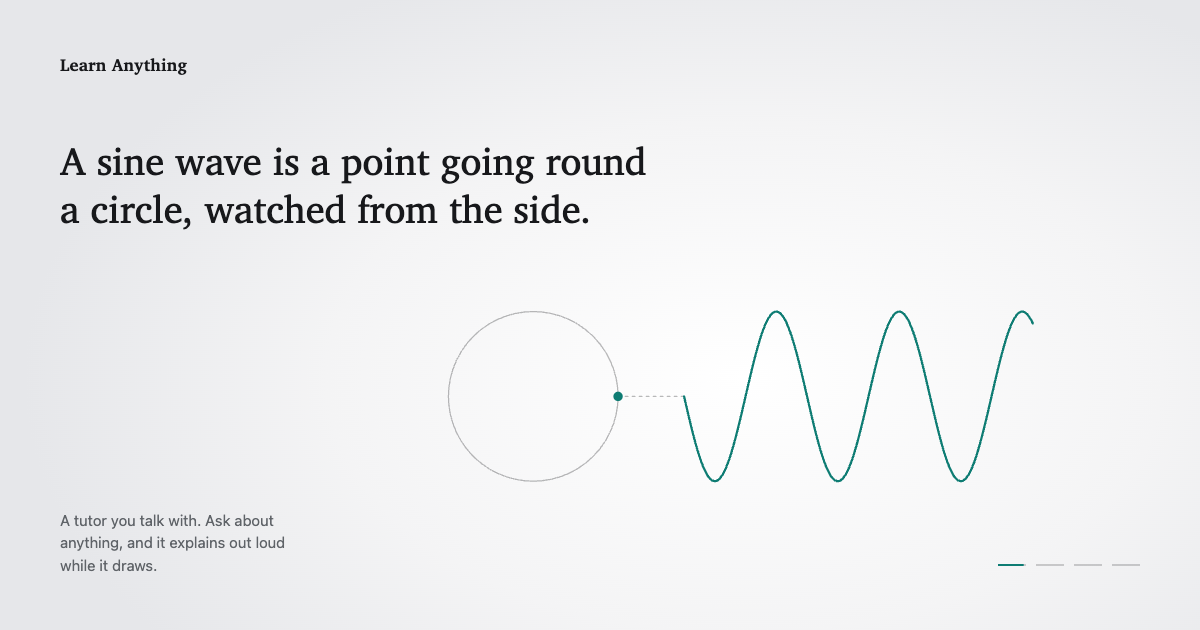
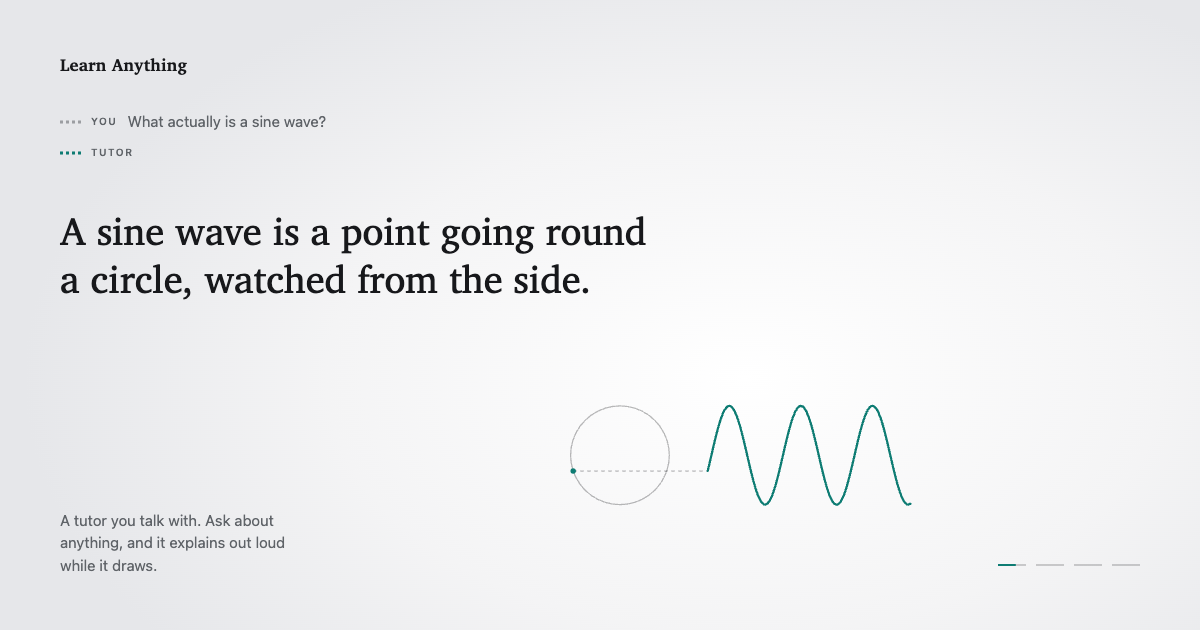
the landing page plays each lesson as an exchange

diff --git a/site/stage.js b/site/stage.js
@@ -1,3 +1,4 @@
+import { FADE, SWAP, exchange } from "./exchange.js";
 import sine from "./lessons/sine.js";
 import light from "./lessons/light.js";
 import route from "./lessons/route.js";
@@ -5,23 +6,32 @@ import moon from "./lessons/moon.js";
 
 const LESSONS = [sine, light, route, moon];
 const WAIT = 0.6;
-const FADE = 0.8;
+const TAIL = 0.25;
+const RAMP = 0.25;
 
+const main = document.querySelector("main");
 const svg = document.querySelector(".drawing");
 const sentence = document.querySelector(".sentence");
+const you = document.querySelector(".you");
+const tutor = document.querySelector(".tutor");
+const question = you.querySelector(".asked");
 const reduce = matchMedia("(prefers-reduced-motion: reduce)");
 
 let mode = reduce.matches ? "reduce" : "play";
 let current = 0;
-let t = -WAIT;
+let s = -WAIT;
+let heard = [];
 let spans = [];
+let shown = null;
 let prev = null;
 
 const scenes = LESSONS.map((lesson) => {
   const pose = lesson.build(svg);
   const group = svg.lastElementChild;
   group.style.display = "none";
-  return { lesson, pose, group };
+  const timeline = exchange(lesson);
+  const answer = lesson.words.map(([word, at]) => [word, timeline.pre + at]);
+  return { lesson, pose, group, answer, ...timeline };
 });
 
 const marks = LESSONS.map((lesson, index) => {
@@ -38,25 +48,44 @@ const list = document.createElement("ol");
 list.className = "sr-only";
 for (const lesson of LESSONS) {
   const item = document.createElement("li");
-  item.textContent = lesson.words.map(([word]) => word).join(" ");
+  const answer = lesson.words.map(([word]) => word).join(" ");
+  item.textContent = `You: ${lesson.asked} Tutor: ${answer} Tutor: ${lesson.askBack}`;
   list.append(item);
 }
 sentence.after(list);
 
-function finished(index) {
-  return LESSONS[index].length - FADE;
+function clamp(value, low, high) {
+  return Math.min(high, Math.max(low, value));
 }
 
-function play(index, at) {
-  current = index;
-  t = at;
-  spans = LESSONS[index].words.map(([word]) => {
+function finished(index) {
+  return scenes[index].total - FADE;
+}
+
+function fill(element, words) {
+  const made = words.map(([word]) => {
     const span = document.createElement("span");
     span.textContent = word;
     return span;
   });
-  sentence.classList.toggle("still", mode !== "play");
-  sentence.replaceChildren(...spans.flatMap((span, i) => (i === 0 ? [span] : [" ", span])));
+  element.replaceChildren(...made.flatMap((span, i) => (i === 0 ? [span] : [" ", span])));
+  return made;
+}
+
+function reveal(made, words) {
+  made.forEach((span, i) => span.classList.toggle("said", s > words[i][1]));
+}
+
+function talking(words) {
+  return s > words[0][1] && s < words.at(-1)[1] + TAIL;
+}
+
+function play(index, at) {
+  current = index;
+  s = at;
+  shown = null;
+  heard = fill(question, scenes[index].asked);
+  main.classList.toggle("still", mode !== "play");
   scenes.forEach((scene, i) => {
     scene.group.style.display = i === index ? "" : "none";
   });
@@ -65,23 +94,39 @@ function play(index, at) {
 }
 
 function show() {
-  const { lesson, pose, group } = scenes[current];
-  pose(t);
-  spans.forEach((span, i) => span.classList.toggle("said", t > lesson.words[i][1]));
-  const fade = String(Math.min(1, Math.max(0, (lesson.length - t) / FADE)));
-  group.style.opacity = fade;
-  sentence.style.opacity = fade;
-  marks[current].style.setProperty("--p", String(mode === "reduce" ? 1 : t / lesson.length));
+  const { lesson, pose, group, pre, asked, answer, askBack, listenAt, total } = scenes[current];
+  const turn = pre + lesson.askAt;
+  const back = mode !== "reduce" && s >= turn + SWAP;
+  const words = back ? askBack : answer;
+  if (words !== shown) {
+    shown = words;
+    spans = fill(sentence, words);
+    // A span inserted and marked said in the same frame skips its fade; settle it unsaid first.
+    void sentence.offsetWidth;
+  }
+  pose(clamp(s - pre, 0, lesson.length));
+  reveal(heard, asked);
+  reveal(spans, words);
+  const fade = clamp((total - s) / FADE, 0, 1);
+  const giving = back || mode === "reduce" ? 1 : clamp((turn + SWAP - s) / SWAP, 0, 1);
+  group.style.opacity = String(fade);
+  sentence.style.opacity = String(Math.min(fade, giving));
+  you.style.opacity = String(Math.min(fade, clamp(s / RAMP, 0, 1)));
+  tutor.style.opacity = String(Math.min(fade, clamp((s - pre) / RAMP, 0, 1)));
+  you.classList.toggle("talking", talking(asked));
+  you.classList.toggle("listening", mode !== "reduce" && s >= listenAt);
+  tutor.classList.toggle("talking", talking(answer) || talking(askBack));
+  marks[current].style.setProperty("--p", String(mode === "reduce" ? 1 : s / total));
 }
 
 function tick(dt) {
-  if (t < 0) {
-    t += dt;
-    if (t >= 0) play(0, 0);
+  if (s < 0) {
+    s += dt;
+    if (s >= 0) play(0, 0);
     return;
   }
-  t += dt;
-  if (t < LESSONS[current].length) show();
+  s += dt;
+  if (s < scenes[current].total) show();
   else play((current + 1) % LESSONS.length, 0);
 }
 
@@ -103,7 +148,7 @@ reduce.addEventListener("change", () => {
 
 const freeze = /^#(\d+)@(\d*\.?\d+)$/.exec(location.hash);
 const frozen = freeze === null ? -1 : Number(freeze[1]) - 1;
-if (frozen >= 0 && frozen < LESSONS.length && Number(freeze[2]) <= LESSONS[frozen].length) {
+if (frozen >= 0 && frozen < LESSONS.length && Number(freeze[2]) <= scenes[frozen].total) {
   mode = "freeze";
   play(frozen, Number(freeze[2]));
 } else if (mode === "reduce") {

diff --git a/site/style.css b/site/style.css
@@ -58,9 +58,10 @@ main {
   box-sizing: border-box;
   display: grid;
   grid-template-columns: 26% 1fr;
-  grid-template-rows: auto auto 1fr auto;
+  grid-template-rows: auto auto auto 1fr auto;
   grid-template-areas:
     "brand brand"
+    "voice voice"
     "say say"
     "about draw"
     "about marks";
@@ -72,32 +73,167 @@ main {
 
 .brand {
   grid-area: brand;
-  margin: 0 0 clamp(24px, 5vw, 80px);
+  margin: 0 0 clamp(24px, 3vw, 48px);
   font: 700 17px / 1.25 var(--serif);
   letter-spacing: 0.01em;
 }
 
+.voice {
+  grid-area: voice;
+  display: grid;
+  gap: 10px;
+  color: var(--ink-2);
+  font: 15px / 21px var(--sans);
+}
+
+.you,
+.tutor {
+  display: grid;
+  grid-template-columns: auto auto 1fr;
+  align-items: start;
+  column-gap: 10px;
+  opacity: 0;
+}
+
+.bars {
+  display: flex;
+  align-items: center;
+  gap: 3px;
+  height: 1lh;
+}
+
+.bars i {
+  width: 3px;
+  height: 14px;
+  border-radius: 1px;
+  background: currentColor;
+  transform: scaleY(0.22);
+}
+
+.you .bars {
+  opacity: 0.55;
+}
+
+.tutor .bars {
+  color: var(--accent);
+}
+
+.talking .bars i {
+  animation: talk 0.8s ease-in-out infinite;
+}
+
+.talking .bars i:nth-child(2) {
+  animation-delay: -0.3s;
+}
+
+.talking .bars i:nth-child(3) {
+  animation-delay: -0.55s;
+}
+
+.talking .bars i:nth-child(4) {
+  animation-delay: -0.15s;
+}
+
+@keyframes talk {
+  0%,
+  100% {
+    transform: scaleY(0.25);
+  }
+  50% {
+    transform: scaleY(1);
+  }
+}
+
+.who {
+  font-size: 10px;
+  font-weight: 600;
+  letter-spacing: 0.14em;
+  text-transform: uppercase;
+}
+
+.asked,
+.listen {
+  grid-area: 1 / 3;
+}
+
+.listen {
+  display: flex;
+  align-items: center;
+  gap: 8px;
+  color: var(--accent);
+  visibility: hidden;
+}
+
+.listen::before {
+  content: "";
+  box-sizing: border-box;
+  width: 11px;
+  height: 11px;
+  border: 2px solid currentColor;
+  border-radius: 50%;
+  animation: pulse 1.2s ease-out infinite;
+}
+
+@keyframes pulse {
+  0% {
+    transform: scale(0.7);
+    opacity: 1;
+  }
+  100% {
+    transform: scale(1.5);
+    opacity: 0.2;
+  }
+}
+
+.listening .asked {
+  visibility: hidden;
+}
+
+.listening .listen {
+  visibility: visible;
+}
+
 .sentence {
   grid-area: say;
-  max-width: 58%;
-  min-height: 2.5em;
-  margin: 0 0 24px;
+  max-width: max(58%, 15em);
+  min-height: 3.75em;
+  margin: 1.1em 0 24px;
   font: 400 clamp(1.75rem, 3.2vw, 3.25rem) / 1.25 var(--serif);
   letter-spacing: -0.003em;
   text-wrap: balance;
 }
 
-.sentence span {
+.sentence span,
+.asked span {
   opacity: 0;
   transition: opacity 250ms ease;
 }
 
-.sentence span.said {
+.sentence span.said,
+.asked span.said {
   opacity: 1;
 }
 
-.sentence.still span {
+.still .sentence span,
+.still .asked span {
   transition: none;
+}
+
+.still .bars i,
+.still .listen::before {
+  animation: none;
+}
+
+.still .talking .bars i {
+  transform: scaleY(0.6);
+}
+
+.still .talking .bars i:nth-child(2) {
+  transform: scaleY(0.95);
+}
+
+.still .talking .bars i:nth-child(4) {
+  transform: scaleY(0.75);
 }
 
 .drawing {
@@ -202,8 +338,8 @@ main {
 
   main {
     grid-template-columns: 100%;
-    grid-template-rows: auto auto 1fr auto auto;
-    grid-template-areas: "brand" "say" "draw" "about" "marks";
+    grid-template-rows: auto auto auto 1fr auto auto;
+    grid-template-areas: "brand" "voice" "say" "draw" "about" "marks";
     padding: 20px;
   }
 
@@ -211,9 +347,14 @@ main {
     margin-bottom: 28px;
   }
 
+  .you {
+    min-height: 2lh;
+    align-content: end;
+  }
+
   .sentence {
     max-width: none;
-    min-height: 3.75em;
+    min-height: 5em;
     margin-bottom: 20px;
     font-size: 1.625rem;
   }

diff --git a/site/index.html b/site/index.html
@@ -7,7 +7,7 @@
 <meta name="description" content="A tutor you talk with. Ask about anything, and it explains out loud while it draws.">
 <meta property="og:title" content="Learn Anything">
 <meta property="og:description" content="A tutor you talk with. Ask about anything, and it explains out loud while it draws.">
-<meta property="og:image" content="https://eucalyptus5.github.io/learn-anything/og.png">
+<meta property="og:image" content="https://yourlearning.space/og.png">
 <meta property="og:image:width" content="1200">
 <meta property="og:image:height" content="630">
 <meta name="twitter:card" content="summary_large_image">
@@ -21,6 +21,18 @@
 <body>
 <main>
   <h1 class="brand">Learn Anything</h1>
+  <div class="voice" aria-hidden="true">
+    <div class="you">
+      <span class="bars"><i></i><i></i><i></i><i></i></span>
+      <span class="who">You</span>
+      <span class="asked"></span>
+      <span class="listen">Listening</span>
+    </div>
+    <div class="tutor">
+      <span class="bars"><i></i><i></i><i></i><i></i></span>
+      <span class="who">Tutor</span>
+    </div>
+  </div>
   <p class="sentence" aria-hidden="true"></p>
   <svg class="drawing" viewBox="0 0 640 300" preserveAspectRatio="xMidYMid meet" aria-hidden="true"></svg>
   <p class="about">A tutor you talk with. Ask about anything, and it explains out loud while it draws.</p>
